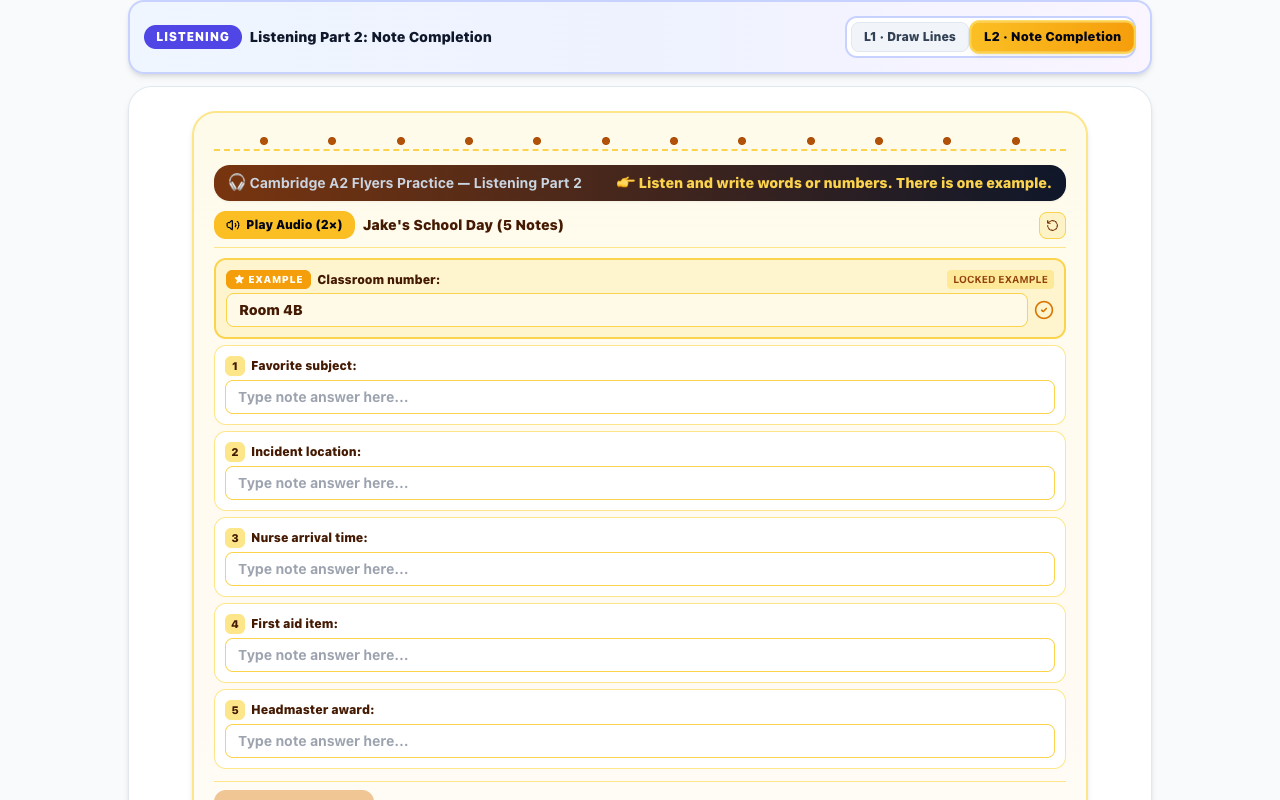
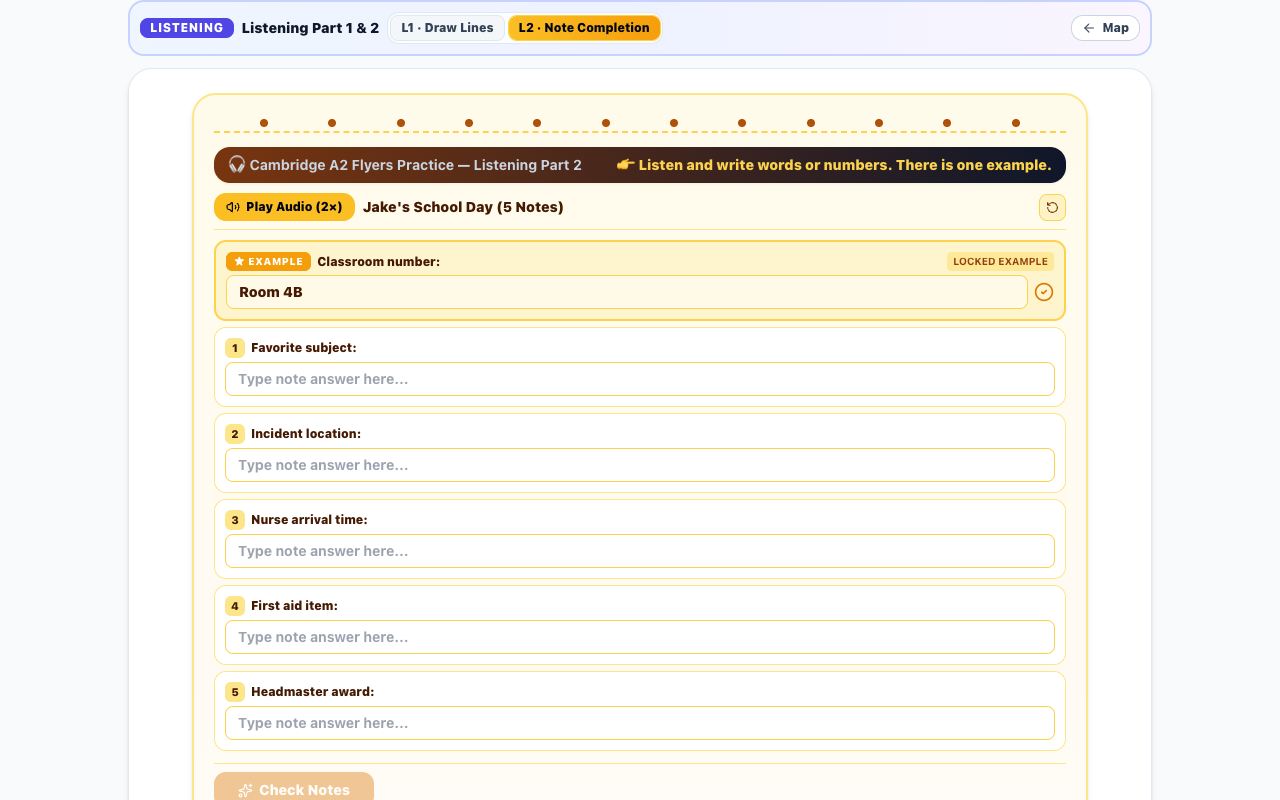
fix(boss): unify Boss headers into single themed box with Map button, rename Exam Intro to Intro

Changed region(s): [[0.0938, 0.0, 0.9062, 1.0]]

diff --git a/src/modules/zones/BossBattleZone.jsx b/src/modules/zones/BossBattleZone.jsx
@@ -20,8 +20,7 @@ import PictureStoryContinuation from '../../components/cambridge/PictureStoryCon
 import FindDifferencesInteractive from '../../components/cambridge/FindDifferencesInteractive';
 import InformationExchangeP2 from '../../components/cambridge/InformationExchangeP2';
 import PersonalQuestionsCompleter from '../../components/cambridge/PersonalQuestionsCompleter';
-import ChoiceGrid from '../../components/common/ChoiceGrid';
-import { Shield, Trophy, CheckCircle2, RotateCcw, Award, PlayCircle, Star, Sparkles } from 'lucide-react';
+import { Shield, Trophy, CheckCircle2, RotateCcw, Award, PlayCircle, Star, Sparkles, ArrowLeft } from 'lucide-react';
 import { useUserStore } from '../../stores/useUserStore';
 import useDailyQuestStore from '../../stores/useDailyQuestStore';
 import { emitLearningEvent, GAMIFICATION_EVENTS } from '../../services/gamificationEventBus';
@@ -34,7 +33,7 @@ import { emitLearningEvent, GAMIFICATION_EVENTS } from '../../services/gamificat
 // Maximum Shield score = 15 (5L + 5RW + 5S).
 // ──────────────────────────────────────────────────────────────────────────────
 
-export default function BossBattleZone({ data, weekNumber, forcedStation = null, hideStationTabs = false }) {
+export default function BossBattleZone({ data, weekNumber, forcedStation = null, hideStationTabs = false, onBackToMap = null }) {
   const navigate = useNavigate();
   const routeParams = useParams();
   const location = useLocation();
@@ -408,17 +407,48 @@ export default function BossBattleZone({ data, weekNumber, forcedStation = null,
 
   const activeTaskId = requestedTaskId || currentTask?.partId;
 
+  const handleReturnToMap = React.useCallback(() => {
+    if (typeof onBackToMap === 'function') {
+      onBackToMap();
+    } else {
+      navigate(`/week/${activeWeek || 33}/hub/1`);
+    }
+  }, [onBackToMap, navigate, activeWeek]);
+
+  const getUnifiedTitle = React.useCallback(() => {
+    if (forcedStation === 'listening_boss' || currentTask?.paper === PAPER.LISTENING) {
+      return stationTasks.length > 1 ? 'Listening Part 1 & 2' : 'Listening Part 1';
+    }
+    if (forcedStation === 'rw_boss' || currentTask?.paper === PAPER.READING_WRITING) {
+      return 'Reading & Writing Part 1';
+    }
+    if (forcedStation === 'review' || currentTask?.paper === PAPER.SPEAKING) {
+      return 'Speaking Part 1';
+    }
+    return currentTask?.displayName || 'Boss Castle';
+  }, [forcedStation, currentTask?.paper, currentTask?.displayName, stationTasks.length]);
+
+  const getHeaderTheme = React.useCallback(() => {
+    if (currentTask?.paper === PAPER.LISTENING) {
+      return 'bg-gradient-to-r from-blue-50 via-indigo-50 to-purple-50 border-indigo-200 text-indigo-950';
+    }
+    if (currentTask?.paper === PAPER.READING_WRITING) {
+      return 'bg-gradient-to-r from-emerald-50 via-teal-50 to-cyan-50 border-emerald-200 text-emerald-950';
+    }
+    return 'bg-gradient-to-r from-amber-50 via-orange-50 to-yellow-50 border-amber-200 text-amber-950';
+  }, [currentTask?.paper]);
+
   return (
     <div className="w-full max-w-5xl mx-auto space-y-3 animate-in fade-in duration-200 font-sans">
-      {/* Boss Assessment Header with Runtime Paper Badge & Multi-Part Tabs */}
+      {/* Unified Boss Assessment Header with Themed Box and Map Return Button */}
       <div
         data-testid="boss-assessment-header"
-        className="bg-gradient-to-r from-blue-50 via-indigo-50 to-purple-50 text-slate-900 rounded-2xl p-2.5 sm:p-3.5 border-2 border-indigo-200 shadow-md flex flex-wrap items-center justify-between gap-2.5"
+        className={`rounded-2xl p-2 sm:p-2.5 border-2 shadow-xs flex flex-wrap items-center justify-between gap-2 ${getHeaderTheme()}`}
       >
-        <div className="flex items-center gap-2">
+        <div className="flex items-center gap-2 shrink-0">
           <span
             data-testid="boss-paper-badge"
-            className={`px-3 py-1 rounded-xl text-xs font-black uppercase tracking-wider shadow-xs ${
+            className={`px-2.5 py-0.5 rounded-lg text-[10px] sm:text-xs font-black uppercase tracking-wider shadow-2xs ${
               currentTask.paper === PAPER.LISTENING
                 ? 'bg-indigo-600 text-white'
                 : currentTask.paper === PAPER.READING_WRITING
@@ -435,13 +465,13 @@ export default function BossBattleZone({ data, weekNumber, forcedStation = null,
             data-component={currentTask.componentKey}
             className="text-xs sm:text-sm font-black text-slate-900"
           >
-            {currentTask.displayName}
+            {getUnifiedTitle()}
           </div>
         </div>
 
-        {/* Part Tabs (for multi-part stations or mock navigation) */}
+        {/* Part Tabs (for multi-part stations: L1/L2) */}
         {stationTasks.length > 1 && (
-          <div data-testid="boss-part-tabs" className="flex items-center gap-1.5 bg-white p-1 rounded-xl border-2 border-indigo-200 shadow-2xs">
+          <div data-testid="boss-part-tabs" className="flex items-center gap-1 bg-white/80 p-0.5 rounded-xl border border-slate-200 shadow-2xs">
             {stationTasks.map((task) => {
               const isActive = activeTaskId === task.partId;
               const isDone = completedPartIds.includes(task.partId);
@@ -455,21 +485,33 @@ export default function BossBattleZone({ data, weekNumber, forcedStation = null,
                     const targetIdx = currentTasks.findIndex(t => t.partId === task.partId);
                     if (targetIdx !== -1) setActiveTaskIndex(targetIdx);
                   }}
-                  className={`px-3 py-1.5 rounded-lg text-xs font-black transition flex items-center gap-1.5 ${
+                  className={`px-2.5 py-1 rounded-lg text-[11px] sm:text-xs font-black transition flex items-center gap-1 ${
                     isActive
-                      ? 'bg-gradient-to-r from-amber-400 to-amber-500 text-slate-950 shadow-md ring-2 ring-amber-300 scale-105'
+                      ? 'bg-gradient-to-r from-amber-400 to-amber-500 text-slate-950 shadow-xs ring-1 ring-amber-300 scale-102'
                       : isDone
                       ? 'bg-emerald-100 text-emerald-800 border border-emerald-300 hover:bg-emerald-200'
-                      : 'bg-slate-100 text-slate-700 hover:bg-indigo-100 hover:text-indigo-900 border border-slate-200'
+                      : 'bg-slate-100/80 text-slate-700 hover:bg-white border border-slate-200'
                   }`}
                 >
-                  {isDone && <CheckCircle2 size={12} />}
+                  {isDone && <CheckCircle2 size={11} />}
                   <span>{task.shortLabel || task.partId.toUpperCase()}</span>
                 </button>
               );
             })}
           </div>
         )}
+
+        {/* Right side: Map button with back arrow */}
+        <button
+          type="button"
+          onClick={handleReturnToMap}
+          className="ml-auto px-2.5 py-1 bg-white hover:bg-slate-50 text-slate-700 hover:text-slate-900 border border-slate-300 rounded-xl text-xs font-black flex items-center gap-1.5 shadow-2xs transition active:scale-95 shrink-0"
+          title="Back to Map"
+          aria-label="Back to Map"
+        >
+          <ArrowLeft size={14} className="text-slate-600" />
+          <span>Map</span>
+        </button>
       </div>
 
       {/* Task Content Card */}

diff --git a/src/components/common/ExamIntroAudioButton.jsx b/src/components/common/ExamIntroAudioButton.jsx
@@ -73,7 +73,7 @@ export default function ExamIntroAudioButton({
       } ${className}`}
     >
       <Volume2 size={14} className={isPlaying ? 'animate-bounce text-amber-700' : 'text-amber-800'} />
-      <span>{isPlaying ? '🔊 Playing Intro...' : '🎧 Exam Intro'}</span>
+      <span>{isPlaying ? '🔊 Playing Intro...' : '🎧 Intro'}</span>
     </button>
   );
 }

diff --git a/src/components/questmap/TaskScreen.jsx b/src/components/questmap/TaskScreen.jsx
@@ -389,6 +389,7 @@ export default function TaskScreen({ weekData, weekId: propWeekId }) {
               weekNumber={weekId}
               forcedStation={routing.station}
               hideStationTabs={true}
+              onBackToMap={handleBackToMap}
             />
           )}
           {routing.zone === 'info_exchange' && (
